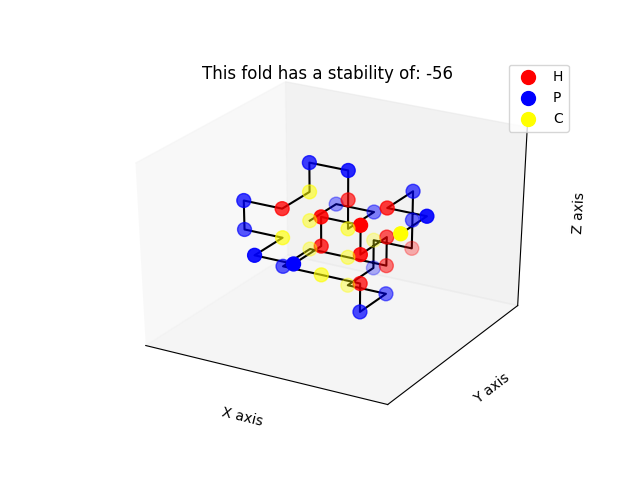
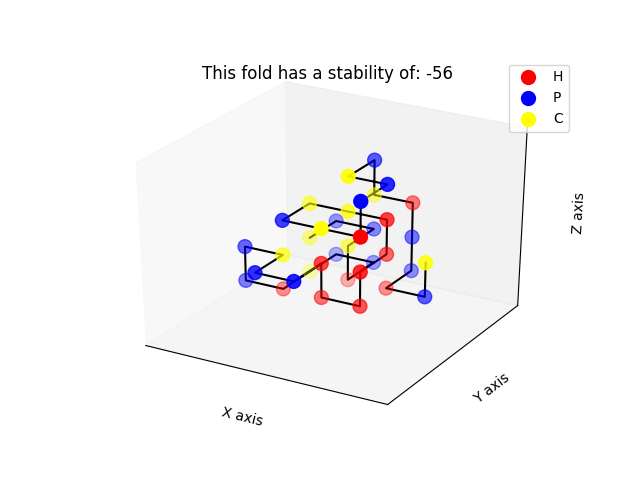
3d

Changed region(s): [[0.3438, 0.3125, 0.6875, 0.6562]]

diff --git a/code/algoritmes/option.py b/code/algoritmes/option.py
@@ -3,7 +3,7 @@ from math import ceil
 """Generates a list of all folding options for the protein"""
 class Option(object):
     def __init__(self):
-        self.options = ["right", "forward", "left", "up", "down"]
+        self.options = ["right", "forward", "left", "up", "down","back"]
         self.options_2D = ["right", "forward", "left"]
 
     def mirror(self, route):
@@ -26,117 +26,124 @@ class Option(object):
 
         # initialises x-, y- and z-coordinates and current direction
         x, y, z = begin, begin + 1, begin
-        directions_xy = {'y_min':{'1':{'right': [-1,0,0,'x_min','1'], 'left': [1,0,0,'x_plus','1'], 'forward': [0,1,0,'y_min','1'], 'up':[0,0,1,'z_plus','1'], 'down': [0,0,-1,'z_min']},
-                                '2':{'right': [1,0,0,'x_plus','2'], 'left': [-1,0,0,'x_min','2'], 'forward': [0,1,0,'y_min','2'], 'up':[0,0,-1,'z_min'], 'down': [0,0,1,'z_plus']},
-                                '3':{'right': [0,0,-1,'z_min','3'], 'left': [0,0,1,'z_plus','3'], 'forward': [0,1,0,'y_min','3'], 'up':[1,0,0,'x_plus'], 'down': [-1,0,0,'x_min']},
-                                '4':{'right': [0,0,1,'z_plus','4'], 'left': [0,0,-1,'z_min','4'], 'forward': [0,1,0,'y_min','4'], 'up':[-1,0,0,'x_min'], 'down': [1,0,0,'x_plus']}},
-                    'x_plus':{'1':{'right': [0,1,'y_min','1'], 'left': [0,-1,'y_plus','1'], 'forward': [1,0,'x_plus','1'], 'up':[0,0,1,'z_plus'], 'down': [0,0,-1,'z_min']},
-
-                    'x_min':{'1':{'right': [0,-1,'y_plus'], 'left': [0,1,'y_min'], 'forward': [-1,0,'x_min'], 'up':[0,0,1,'z_plus'], 'down': [0,0,-1,'z_min']},
-                    'y_plus':{'1':{'right': [1,0,'x_plus'], 'left': [-1,0,'x_min'], 'forward': [0,-1,'y_plus'], 'up':[0,0,1,'z_plus'], 'down': [0,0,-1,'z_min']},
-                    'z_plus':{'1':{'right': [-1,0,'x_plus'], 'left': [1,0,'x_min'], 'forward': [0,1]},
-                    'z_min':{'1':{'right': [-1,0,'x_plus'], 'left': [1,0,'x_min'], 'forward': [0,1]}}
-        direction = ["y_min","1"]
-
+        # directions = {'y_min':{'1':{'right': [-1,0,0,'x_min','1'], 'left': [1,0,0,'x_plus','1'], 'forward': [0,1,0,'y_min','1'], 'up':[0,0,1,'z_plus','1'], 'down': [0,0,-1,'z_min']},
+        #                         '2':{'right': [1,0,0,'x_plus','2'], 'left': [-1,0,0,'x_min','2'], 'forward': [0,1,0,'y_min','2'], 'up':[0,0,-1,'z_min'], 'down': [0,0,1,'z_plus']},
+        #                         '3':{'right': [0,0,-1,'z_min','3'], 'left': [0,0,1,'z_plus','3'], 'forward': [0,1,0,'y_min','3'], 'up':[1,0,0,'x_plus'], 'down': [-1,0,0,'x_min']},
+        #                         '4':{'right': [0,0,1,'z_plus','4'], 'left': [0,0,-1,'z_min','4'], 'forward': [0,1,0,'y_min','4'], 'up':[-1,0,0,'x_min'], 'down': [1,0,0,'x_plus']}},
+        #             'x_plus':{'1':{'right': [0,1,'y_min','1'], 'left': [0,-1,'y_plus','1'], 'forward': [1,0,'x_plus','1'], 'up':[0,0,1,'z_plus'], 'down': [0,0,-1,'z_min']},
+        #
+        #             'x_min':{'1':{'right': [0,-1,'y_plus'], 'left': [0,1,'y_min'], 'forward': [-1,0,'x_min'], 'up':[0,0,1,'z_plus'], 'down': [0,0,-1,'z_min']},
+        #             'y_plus':{'1':{'right': [1,0,'x_plus'], 'left': [-1,0,'x_min'], 'forward': [0,-1,'y_plus'], 'up':[0,0,1,'z_plus'], 'down': [0,0,-1,'z_min']},
+        #             'z_plus':{'1':{'right': [-1,0,'x_plus'], 'left': [1,0,'x_min'], 'forward': [0,1]},
+        #             'z_min':{'1':{'right': [-1,0,'x_plus'], 'left': [1,0,'x_min'], 'forward': [0,1]}}
+        direction = 'forward'
+        going_back = {'left':'right','right':'left','forward':'back','back':'forward','up':'down','down':'up'}
+        new_directions = {'left':[-1,0,0],'right':[1,0,0],'forward':[0,1,0],'back':[0,-1,0],'up':[0,0,1],'down':[0,0,-1],}
         # loops over current option and appends aminoacid coordinates
         # if there are no bumps
         for move in option:
-            x += directions[direction[0]][direction[1]][move][0]
-            y += directions[direction[0]][direction[1]][move][1]
-            z += directions[direction[0]][direction[1]][move][2]
-            helper = direction[0]
-            direction[0] = directions[direction[0]][direction[1]][move][3]
-            direction[1] = directions[helper][direction[1]][move][4]
-            if direction == "x_plus":
-                if move == "right":
-                    y = y - 1
-                    direction = "y_min"
-                elif move == "left":
-                    y = y + 1
-                    direction = "y_plus"
-                elif move == "up":
-                    z = z + 1
-                    direction = "z_plus"
-                elif move == "down":
-                    z = z - 1
-                    direction = "z_min"
-                elif move == "forward":
-                    x = x + 1
-            elif direction == "y_min":
-                if move == "right":
-                    x = x + 1
-                    direction = "x_plus"
-                elif move == "left":
-                    x = x - 1
-                    direction = "x_min"
-                elif move == "up":
-                    z = z + 1
-                    direction = "z_plus"
-                elif move == "down":
-                    z = z - 1
-                    direction = "z_min"
-                elif move == "forward":
-                    y = y + 1
-            elif direction == "y_plus":
-                if move == "right":
-                    x = x - 1
-                    direction = "x_min"
-                elif move == "left":
-                    x = x + 1
-                    direction = "x_plus"
-                elif move == "up":
-                    z = z + 1
-                    direction = "z_plus"
-                elif move == "down":
-                    z = z - 1
-                    direction = "z_min"
-                elif move == "forward":
-                    y = y - 1
-            elif direction == "x_min":
-                if move == "right":
-                    y = y + 1
-                    direction = "y_plus"
-                elif move == "left":
-                    y = y - 1
-                    direction = "y_min"
-                elif move == "up":
-                    z = z + 1
-                    direction = "z_plus"
-                elif move == "down":
-                    z = z - 1
-                    direction = "z_min"
-                elif move == "forward":
-                    x = x - 1
-            elif direction == "z_plus":
-                if move == "right":
-                    x = x + 1
-                    direction = "x_plus"
-                elif move == "left":
-                    x = x - 1
-                    direction = "x_min"
-                elif move == "up":
-                    y = y + 1
-                    direction = "y_plus"
-                elif move == "down":
-                    y = y - 1
-                    direction = "y_min"
-                elif move == "forward":
-                    z = z + 1
-            elif direction == "z_min":
-                if move == "right":
-                    x = x + 1
-                    direction = "x_plus"
-                elif move == "left":
-                    x = x - 1
-                    direction = "x_min"
-                elif move == "up":
-                    y = y + 1
-                    direction = "y_plus"
-                elif move == "down":
-                    y = y - 1
-                    direction = "y_min"
-                elif move == "forward":
-                    z = z - 1
+            # x += directions[direction[0]][direction[1]][move][0]
+            # y += directions[direction[0]][direction[1]][move][1]
+            # z += directions[direction[0]][direction[1]][move][2]
+            # helper = direction[0]
+            # direction[0] = directions[direction[0]][direction[1]][move][3]
+            # direction[1] = directions[helper][direction[1]][move][4]
+            if not going_back[move] == direction:
+                x += new_directions[move][0]
+                y += new_directions[move][1]
+                z += new_directions[move][2]
+                direction = move
+
+            # if direction == "x_plus":
+            #     if move == "right":
+            #         y = y - 1
+            #         direction = "y_min"
+            #     elif move == "left":
+            #         y = y + 1
+            #         direction = "y_plus"
+            #     elif move == "up":
+            #         z = z + 1
+            #         direction = "z_plus"
+            #     elif move == "down":
+            #         z = z - 1
+            #         direction = "z_min"
+            #     elif move == "forward":
+            #         x = x + 1
+            # elif direction == "y_min":
+            #     if move == "right":
+            #         x = x + 1
+            #         direction = "x_plus"
+            #     elif move == "left":
+            #         x = x - 1
+            #         direction = "x_min"
+            #     elif move == "up":
+            #         z = z + 1
+            #         direction = "z_plus"
+            #     elif move == "down":
+            #         z = z - 1
+            #         direction = "z_min"
+            #     elif move == "forward":
+            #         y = y + 1
+            # elif direction == "y_plus":
+            #     if move == "right":
+            #         x = x - 1
+            #         direction = "x_min"
+            #     elif move == "left":
+            #         x = x + 1
+            #         direction = "x_plus"
+            #     elif move == "up":
+            #         z = z + 1
+            #         direction = "z_plus"
+            #     elif move == "down":
+            #         z = z - 1
+            #         direction = "z_min"
+            #     elif move == "forward":
+            #         y = y - 1
+            # elif direction == "x_min":
+            #     if move == "right":
+            #         y = y + 1
+            #         direction = "y_plus"
+            #     elif move == "left":
+            #         y = y - 1
+            #         direction = "y_min"
+            #     elif move == "up":
+            #         z = z + 1
+            #         direction = "z_plus"
+            #     elif move == "down":
+            #         z = z - 1
+            #         direction = "z_min"
+            #     elif move == "forward":
+            #         x = x - 1
+            # elif direction == "z_plus":
+            #     if move == "right":
+            #         x = x + 1
+            #         direction = "x_plus"
+            #     elif move == "left":
+            #         x = x - 1
+            #         direction = "x_min"
+            #     elif move == "up":
+            #         y = y + 1
+            #         direction = "y_plus"
+            #     elif move == "down":
+            #         y = y - 1
+            #         direction = "y_min"
+            #     elif move == "forward":
+            #         z = z + 1
+            # elif direction == "z_min":
+            #     if move == "right":
+            #         x = x + 1
+            #         direction = "x_plus"
+            #     elif move == "left":
+            #         x = x - 1
+            #         direction = "x_min"
+            #     elif move == "up":
+            #         y = y + 1
+            #         direction = "y_plus"
+            #     elif move == "down":
+            #         y = y - 1
+            #         direction = "y_min"
+            #     elif move == "forward":
+            #         z = z - 1
             # only appends coordinates if there are no bumps
             if tuple((x, y, z)) in positions:
                 return False

diff --git a/code/algoritmes/greedylookahead.py b/code/algoritmes/greedylookahead.py
@@ -123,6 +123,8 @@ def main():
         writer.writerow(results)
 
     csvFile.close()
+
+    print(best_fold)
     # start visualisation
     p = Path(protein.length, best_positions)
     if len(best_positions[0]) is 3:
